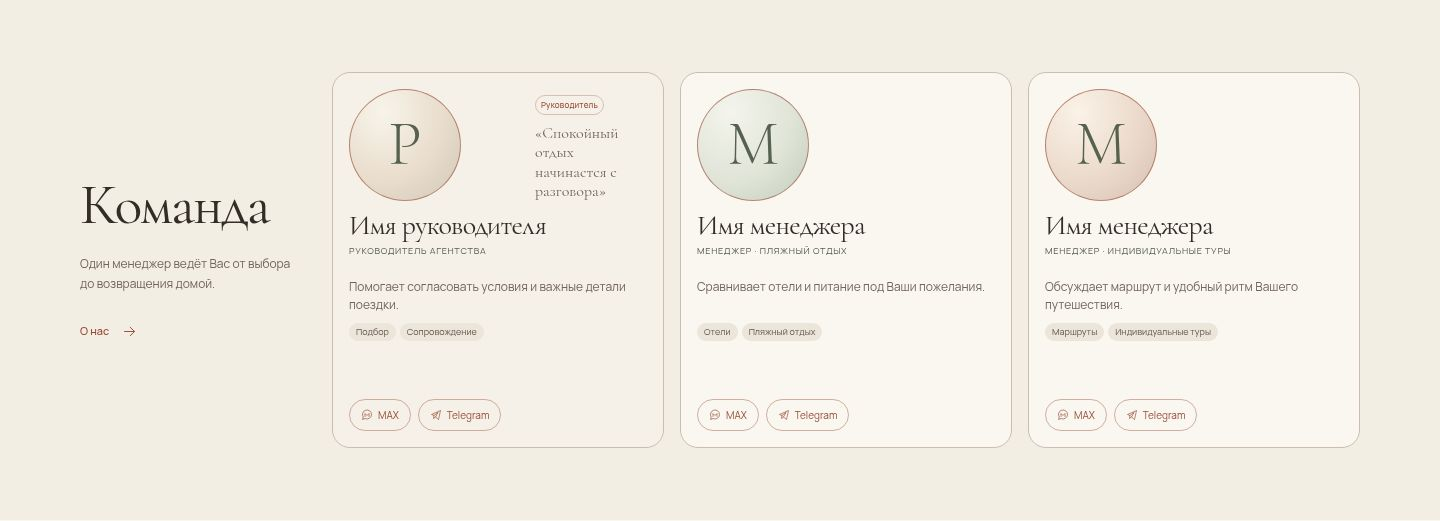
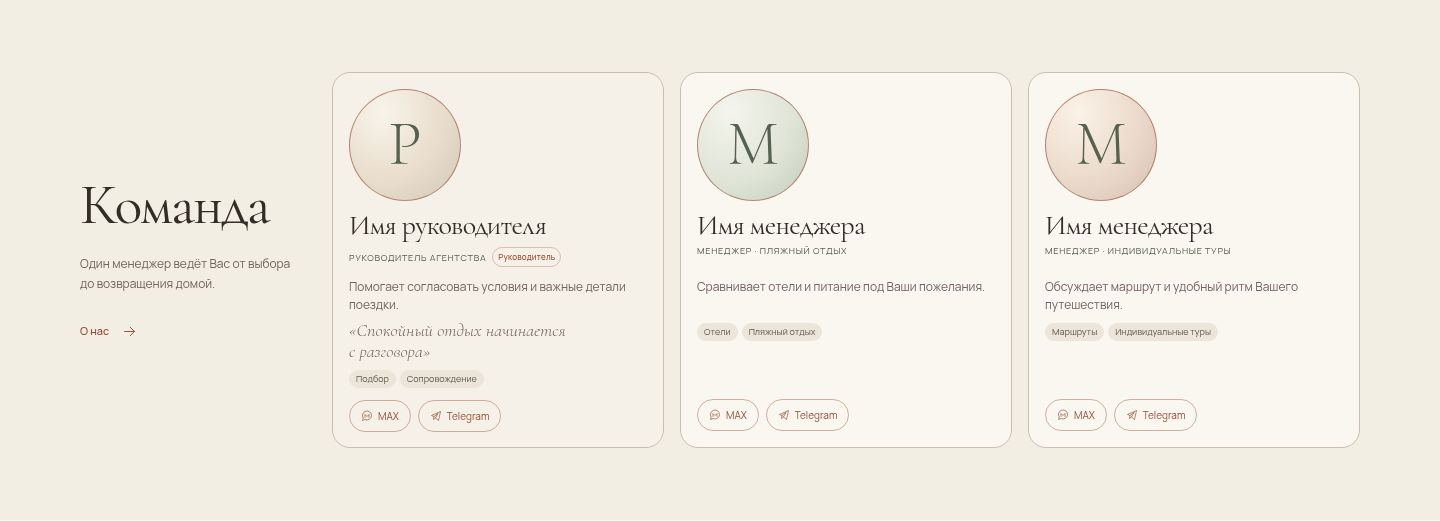
Move leader quote below description without increasing team height

diff --git a/docs/scheme2/d1/index.html b/docs/scheme2/d1/index.html
@@ -55,7 +55,7 @@
 <article class="step" data-editable="process.2"><span class="step-number">3</span><h3>Оформляем и готовим поездку</h3><p>Согласуем условия, поможем с документами и подготовкой к отъезду.</p></article>
 </div><div class="contact-strip"><span>Написать менеджеру</span><div><a href="tel:+78512299547" data-goal="phone_process" data-editable="contacts.primaryPhone"><svg class="icon" aria-hidden="true"><use href="#i-phone"></use></svg><span>Телефон</span></a><a href="#" data-messenger="MAX" data-goal="messenger_max_process" data-editable="contacts.max"><svg class="icon" aria-hidden="true"><use href="#i-max"></use></svg><span>MAX</span></a><a href="#" data-messenger="Telegram" data-goal="messenger_telegram_process" data-editable="contacts.telegram"><svg class="icon" aria-hidden="true"><use href="#i-telegram"></use></svg><span>Telegram</span></a></div></div></div></section>
 <section class="section team-section" data-home-block="06" id="team"><div class="container team-layout"><div class="team-intro"><div class="team-intro-heading"><h2 data-editable="home.sections.06.title">Команда</h2><a class="text-link team-about" href="../../o-nas/index.html" data-goal="team_about" data-editable="team.aboutLabel">О нас <svg class="icon" aria-hidden="true"><use href="#i-arrow"></use></svg></a></div><p data-editable="team.intro">Один менеджер ведёт Вас от выбора до возвращения домой.</p></div><div class="manager-grid">
-<!-- component: manager-card --><article class="manager-card manager-card--lead" data-editable="team.0"><div class="manager-top"><div class="manager-avatar" role="img" aria-label="Монограмма: руководитель агентства" data-editable="team.0.photo"><span aria-hidden="true" data-editable="team.0.monogram">Р</span></div><div class="manager-lead-note"><span class="manager-badge" data-editable="team.0.badge">Руководитель</span><blockquote data-editable="team.0.quote" data-needs-approval="manager-quote">«Спокойный отдых начинается с разговора»</blockquote></div></div><div class="manager-body"><h3 data-editable="team.0.name">Имя руководителя</h3><p class="manager-role" data-editable="team.0.role">Руководитель агентства</p><p class="manager-help" data-editable="team.0.help">Помогает согласовать условия и важные детали поездки.</p><div class="manager-specialization"><span data-editable="team.0.specialization.0">Подбор</span><span data-editable="team.0.specialization.1">Сопровождение</span></div><div class="manager-channels"><a href="#" data-messenger="MAX" data-goal="team_max_0" data-editable="team.0.maxLabel"><svg class="icon" aria-hidden="true"><use href="#i-max"></use></svg><span>MAX</span></a><a href="#" data-messenger="Telegram" data-goal="team_telegram_0" data-editable="team.0.telegramLabel"><svg class="icon" aria-hidden="true"><use href="#i-telegram"></use></svg><span>Telegram</span></a></div></div></article><!-- /component: manager-card -->
+<!-- component: manager-card --><article class="manager-card manager-card--lead" data-editable="team.0"><div class="manager-top"><div class="manager-avatar" role="img" aria-label="Монограмма: руководитель агентства" data-editable="team.0.photo"><span aria-hidden="true" data-editable="team.0.monogram">Р</span></div></div><div class="manager-body"><h3 data-editable="team.0.name">Имя руководителя</h3><div class="manager-role-line"><p class="manager-role" data-editable="team.0.role">Руководитель агентства</p><span class="manager-badge" data-editable="team.0.badge">Руководитель</span></div><p class="manager-help" data-editable="team.0.help">Помогает согласовать условия и важные детали поездки.</p><blockquote class="manager-quote" data-editable="team.0.quote" data-needs-approval="manager-quote">«Спокойный отдых начинается с разговора»</blockquote><div class="manager-specialization"><span data-editable="team.0.specialization.0">Подбор</span><span data-editable="team.0.specialization.1">Сопровождение</span></div><div class="manager-channels"><a href="#" data-messenger="MAX" data-goal="team_max_0" data-editable="team.0.maxLabel"><svg class="icon" aria-hidden="true"><use href="#i-max"></use></svg><span>MAX</span></a><a href="#" data-messenger="Telegram" data-goal="team_telegram_0" data-editable="team.0.telegramLabel"><svg class="icon" aria-hidden="true"><use href="#i-telegram"></use></svg><span>Telegram</span></a></div></div></article><!-- /component: manager-card -->
 <!-- component: manager-card --><article class="manager-card" data-editable="team.1"><div class="manager-top"><div class="manager-avatar" role="img" aria-label="Монограмма: менеджер · пляжный отдых" data-editable="team.1.photo"><span aria-hidden="true" data-editable="team.1.monogram">М</span></div></div><div class="manager-body"><h3 data-editable="team.1.name">Имя менеджера</h3><p class="manager-role" data-editable="team.1.role">Менеджер · пляжный отдых</p><p class="manager-help" data-editable="team.1.help">Сравнивает отели и питание под Ваши пожелания.</p><div class="manager-specialization"><span data-editable="team.1.specialization.0">Отели</span><span data-editable="team.1.specialization.1">Пляжный отдых</span></div><div class="manager-channels"><a href="#" data-messenger="MAX" data-goal="team_max_1" data-editable="team.1.maxLabel"><svg class="icon" aria-hidden="true"><use href="#i-max"></use></svg><span>MAX</span></a><a href="#" data-messenger="Telegram" data-goal="team_telegram_1" data-editable="team.1.telegramLabel"><svg class="icon" aria-hidden="true"><use href="#i-telegram"></use></svg><span>Telegram</span></a></div></div></article><!-- /component: manager-card -->
 <!-- component: manager-card --><article class="manager-card" data-editable="team.2"><div class="manager-top"><div class="manager-avatar" role="img" aria-label="Монограмма: менеджер · индивидуальные туры" data-editable="team.2.photo"><span aria-hidden="true" data-editable="team.2.monogram">М</span></div></div><div class="manager-body"><h3 data-editable="team.2.name">Имя менеджера</h3><p class="manager-role" data-editable="team.2.role">Менеджер · индивидуальные туры</p><p class="manager-help" data-editable="team.2.help">Обсуждает маршрут и удобный ритм Вашего путешествия.</p><div class="manager-specialization"><span data-editable="team.2.specialization.0">Маршруты</span><span data-editable="team.2.specialization.1">Индивидуальные туры</span></div><div class="manager-channels"><a href="#" data-messenger="MAX" data-goal="team_max_2" data-editable="team.2.maxLabel"><svg class="icon" aria-hidden="true"><use href="#i-max"></use></svg><span>MAX</span></a><a href="#" data-messenger="Telegram" data-goal="team_telegram_2" data-editable="team.2.telegramLabel"><svg class="icon" aria-hidden="true"><use href="#i-telegram"></use></svg><span>Telegram</span></a></div></div></article><!-- /component: manager-card -->
 </div></div></section>

diff --git a/docs/scheme2/d1/css/main.css b/docs/scheme2/d1/css/main.css
@@ -528,9 +528,7 @@ body:has(dialog[open]) { overflow: hidden; }
 .manager-card:nth-child(3) .manager-avatar { background: radial-gradient(ellipse at 30% 20%, #FBF2E7 0, #EBDACC 55%, #D5BFB1 100%); }
 .manager-avatar > span { font: 300 40px/1 var(--display); }
 .manager-avatar > img { width: 100%; height: 100%; object-fit: cover; }
-.manager-lead-note { min-width: 0; color: var(--muted); text-align: center; }
 .manager-badge { display: inline-block; color: var(--clay); font: 500 7px/1.5 var(--body); letter-spacing: .025em; }
-.manager-lead-note blockquote { margin-top: 5px; font: 400 10px/1.4 var(--display); }
 .manager-body { display: flex; flex-direction: column; min-width: 0; padding: 0; }
 .manager-body h3 { font-size: 25px; line-height: 1; letter-spacing: -.025em; }
 .manager-role { min-height: 21px; margin-top: 4px; color: var(--sage); font-size: 7px; line-height: 1.5; letter-spacing: .08em; text-transform: uppercase; }
@@ -555,9 +553,7 @@ body:has(dialog[open]) { overflow: hidden; }
   .manager-top { position: relative; flex-direction: row; align-items: center; justify-content: space-between; gap: 10px; height: 112px; }
   .manager-avatar { width: 112px; height: 112px; }
   .manager-avatar > span { font-size: 62px; }
-  .manager-lead-note { text-align: left; overflow-wrap: anywhere; }
   .manager-badge { font-size: 7px; }
-  .manager-lead-note blockquote { font-size: 13px; line-height: 1.15; }
   .manager-body { flex: 1; }
   .manager-body h3 { font-size: 26px; line-height: 1.05; }
   .manager-role { min-height: 24px; margin-top: 3px; font-size: 8px; line-height: 1.5; }
@@ -581,12 +577,37 @@ body:has(dialog[open]) { overflow: hidden; }
   .manager-body h3 { font-size: 28px; }
   .manager-role { min-height: 27px; font-size: 9px; }
   .manager-help { min-height: 36px; font-size: 12px; }
-  .manager-lead-note { max-width: 112px; }
   .manager-badge { padding: 3px 5px; border: 1px solid rgb(152 75 51 / 30%); border-radius: 12px; font-size: 8px; }
-  .manager-lead-note blockquote { margin-top: 9px; font-size: 16px; line-height: 1.2; }
   .manager-specialization > span { padding: 3px 7px; font-size: 9px; }
   .manager-channels { gap: 7px; }
   .manager-channels > a { min-height: 32px; padding: 6px 11px; font-size: 10px; }
+}
+
+/* Leader: the quote follows the description across the card, never beside the avatar. */
+.manager-role-line { display: flex; align-items: center; flex-wrap: wrap; gap: 3px 6px; min-height: 21px; margin-top: 4px; }
+.manager-role-line .manager-role { min-height: 0; margin: 0; }
+.manager-role-line .manager-badge { margin: 0; }
+.manager-quote { width: 100%; margin-top: 6px; color: var(--muted); font: italic 300 18px/1.15 'Cormorant Garamond', serif; letter-spacing: 0; text-wrap: pretty; display: -webkit-box; -webkit-box-orient: vertical; -webkit-line-clamp: 2; overflow: hidden; }
+@media (max-width: 767px) {
+  .team-section .manager-card { height: 180px; }
+  .manager-card--lead { grid-template-rows: auto auto auto auto 30px; column-gap: 14px; row-gap: 3px; }
+  .manager-card--lead .manager-top { grid-column: 1; grid-row: 1 / 4; align-self: start; }
+  .manager-card--lead .manager-body { display: contents; }
+  .manager-card--lead h3 { grid-column: 2; grid-row: 1; }
+  .manager-card--lead .manager-role-line { grid-column: 2; grid-row: 2; min-height: 0; margin: 0; }
+  .manager-card--lead .manager-help { grid-column: 2; grid-row: 3; margin: 0; }
+  .manager-card--lead .manager-quote { grid-column: 1 / -1; grid-row: 4; margin: 0; align-self: center; font-size: 17px; }
+  .manager-card--lead .manager-specialization { grid-column: 1 / -1; grid-row: 5; align-self: center; max-width: calc(100% - 140px); margin: 0; }
+  .manager-card--lead .manager-channels { grid-column: 1 / -1; grid-row: 5; justify-self: end; align-self: center; margin: 0; }
+}
+@media (min-width: 768px) and (max-width: 1099px) {
+  .manager-card--lead { gap: 4px; }
+  .manager-card--lead .manager-role-line { min-height: 14px; margin-top: 3px; }
+  .manager-card--lead .manager-quote { margin-top: 0; font-size: 14px; line-height: 16px; }
+  .manager-card--lead .manager-specialization { margin-top: 5px; margin-bottom: 0; }
+}
+@media (min-width: 1100px) {
+  .manager-role-line { min-height: 27px; margin-top: 3px; }
 }
 
 @media (prefers-reduced-motion: reduce) {

diff --git a/docs/scheme2/d1/NOTES.md b/docs/scheme2/d1/NOTES.md
@@ -10,7 +10,7 @@
 
 Аватары — круги 112 px с тонким терракотовым кольцом, мягкими тональными градиентами и монограммами Cormorant Garamond. Изображение можно вставить в тот же `.manager-avatar`: предусмотрен `object-fit: cover`, размеры карточки не изменятся. У руководителя чуть теплее фон, небольшая плашка и короткая цитата **для согласования**, помеченная `data-needs-approval="manager-quote"`. Новых имён, лиц и подтверждённых специализаций не придумано: чипы описывают имеющиеся роли, а не заявляют знание конкретных стран.
 
-На телефоне три карточки стоят **столбиком**, без свайпа: аватар 72 px слева, имя и описание справа, две кнопки-пилюли внизу текстовой колонки. На 390 px вся секция занимает **708 px**, на 360 px — около **727 px**. Все тексты команды помечены `data-editable`; MAX и Telegram используют прежнюю подсказку с телефоном. Лёгкий подъём карточки работает только при наведении мышью и отключён при `prefers-reduced-motion`.
+На телефоне три карточки стоят **столбиком**, без свайпа: аватар 72 px слева, имя и описание справа, две кнопки-пилюли внизу текстовой колонки. На 390 px вся секция занимает **705 px**, на 360 px — около **724 px**. Все тексты команды помечены `data-editable`; MAX и Telegram используют прежнюю подсказку с телефоном. Лёгкий подъём карточки работает только при наведении мышью и отключён при `prefers-reduced-motion`.
 
 ## Четыре акцента
 
@@ -38,3 +38,7 @@
 Сценарии и размеры — в [QA_REPORT.json](QA_REPORT.json). Проверены слайдер, опрос, аккордеон, карусель партнёров, форма, мобильная связь и обе кнопки каждого сотрудника. Все ссылки и ресурсы относительные; ошибок консоли и запросов нет. Проверка `file://` ограничена политикой Chromium окружения; проверен локальный HTTP с префиксом подпапки.
 
 Полностраничные JPEG, качество 80: [390 px](screens/390.jpg), [1440 px](screens/1440.jpg), [четыре акцента, 1440 px](screens/accent-options-1440.jpg). Отдельно команда: [390 px](screens/team-390.jpg), [1440 px](screens/team-1440.jpg). При снимке только команды плавающая шапка и кнопка связи скрываются средствами захвата, чтобы в кадр попал сам компонент; файлы страницы этим не меняются.
+
+## Уточнение карточки руководителя
+
+Цитата перенесена из колонки у аватара непосредственно под описание: настоящий Cormorant Garamond Italic 300, до двух строк, на всю внутреннюю ширину карточки. На телефоне цитата занимает обе колонки, а чипы и кнопки связи делят последнюю строку. Плашка «Руководитель» находится рядом с ролью. На компьютере карточки по-прежнему по 376 px, секция — 520 px; на телефоне все три карточки выровнены до 180 px, секция на 390 px стала чуть ниже — 705 px. На планшете прежняя высота сохранена за счёт более плотных интервалов в карточке руководителя. Обновлены только два снимка команды; полностраничные снимки и страница акцентов относятся к предыдущему этапу.

diff --git a/docs/scheme2/d1/PR_DESCRIPTION.md b/docs/scheme2/d1/PR_DESCRIPTION.md
@@ -1,6 +1,6 @@
 # Схема 2 · d1: компактная команда и тонкая строка-акцент
 
-Команда больше не занимает почти целый экран огромными портретами. На 1440 px интро стоит слева, три компактные карточки справа; высота секции **520 px**, карточки **376 px**. На 390 px — три горизонтальные карточки столбиком, секция **708 px**, без свайпа. Аватары 112 / 72 px, монограммы и тональные градиенты, тонкая рамка, чипы и кнопки MAX / Telegram; у руководителя деликатное выделение и редактируемая цитата для согласования.
+Команда больше не занимает почти целый экран огромными портретами. На 1440 px интро стоит слева, три компактные карточки справа; высота секции **520 px**, карточки **376 px**. На 390 px — три горизонтальные карточки столбиком, секция **705 px**, без свайпа. Аватары 112 / 72 px, монограммы и тональные градиенты, тонкая рамка, чипы и кнопки MAX / Telegram; у руководителя деликатное выделение и редактируемая цитата для согласования.
 
 Для строки «Подбор путешествий под Вас» выбран **Bad Script 22 px**, кремовый с непрозрачностью 88%, отступ до заголовка 10 px. Тонкий монолинейный штрих сохраняет личный тон, не конкурируя с Cormorant. На [accent-options.html](accent-options.html) собраны четыре одинаковых обложки: A — Bad Script, B — Marck Script, C — настоящий Cormorant Garamond Italic 300, D — Manrope с разрядкой и линией. Новые WOFF2 и лицензии OFL локальные; все русские буквы, включая Ё/ё, проверены по таблицам cmap. Caveat удалён.
 
@@ -21,3 +21,7 @@ Chromium: 360, 390, 768, 1280, 1440 px. Побайтово проверен HTML
 ## Что проверить владельцу
 
 Выбор акцента A, плотность команды и читаемость на телефоне. Заполнить реальные имена, фото, ссылки и специализации сотрудников, согласовать цитату руководителя (`data-needs-approval`). Новых отзывов, лиц и обещаний не добавлено. Формы ничего не отправляют и не сохраняют.
+
+## Уточнение цитаты руководителя
+
+Цитата стоит непосредственно под описанием, Cormorant Garamond Italic 300, до двух строк и на всю внутреннюю ширину карточки. Плашка перенесена к роли. Карточки одинаковой высоты: 376 px на компьютере, 180 px на телефоне. Блок не вырос: 520 px на 1440, около 705 px на 390; прежняя высота также сохранена на 768 и 1024. На шести ширинах проверены отсутствие обрезанного текста, максимум две строки, ширина цитаты, равные карточки и ссылки связи. HTML вне карточки руководителя и основной JS не изменены. Обновлены [команда 1440 px](screens/team-1440.jpg) и [команда 390 px](screens/team-390.jpg); полностраничные снимки и сравнение акцентов сохранены с предыдущего этапа.
